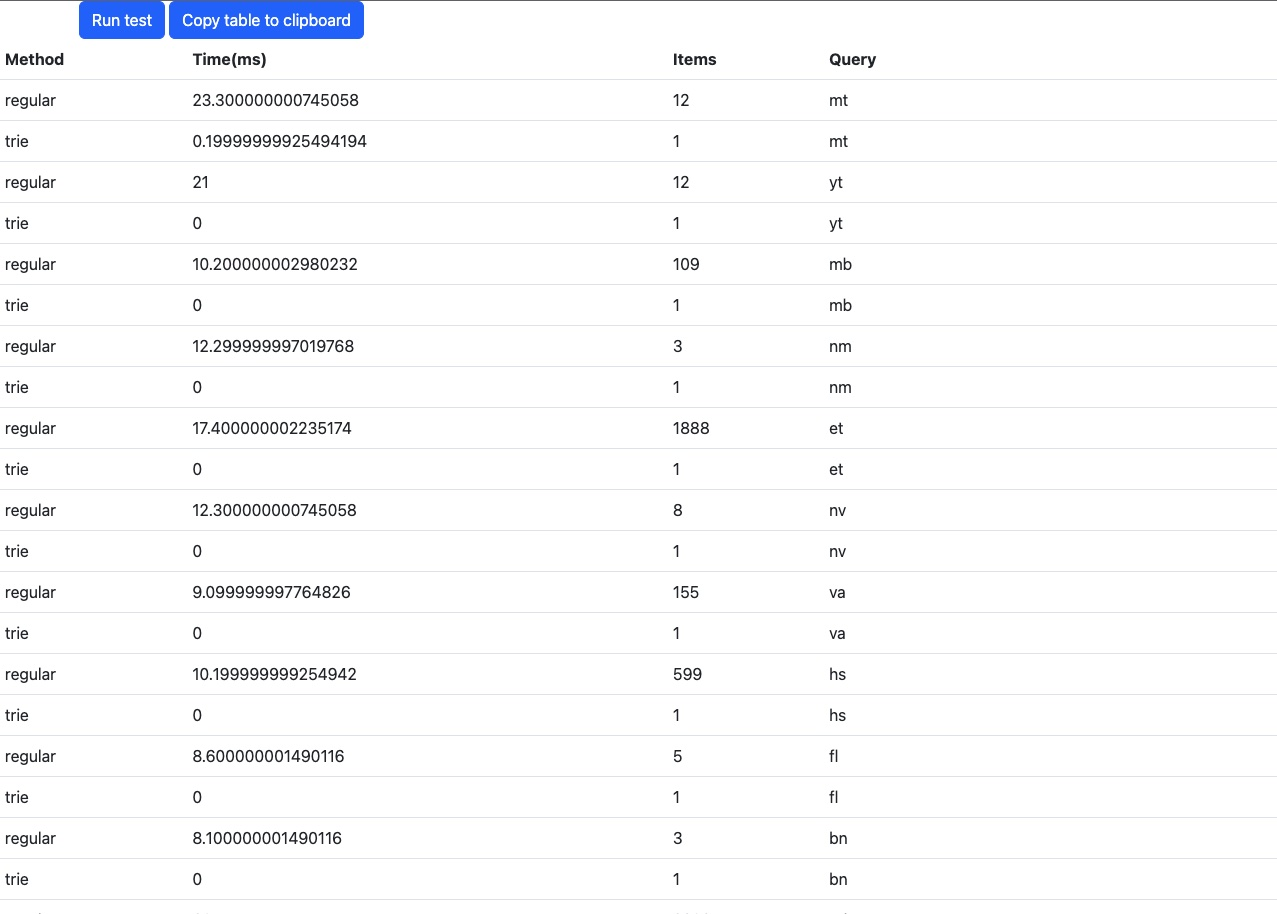
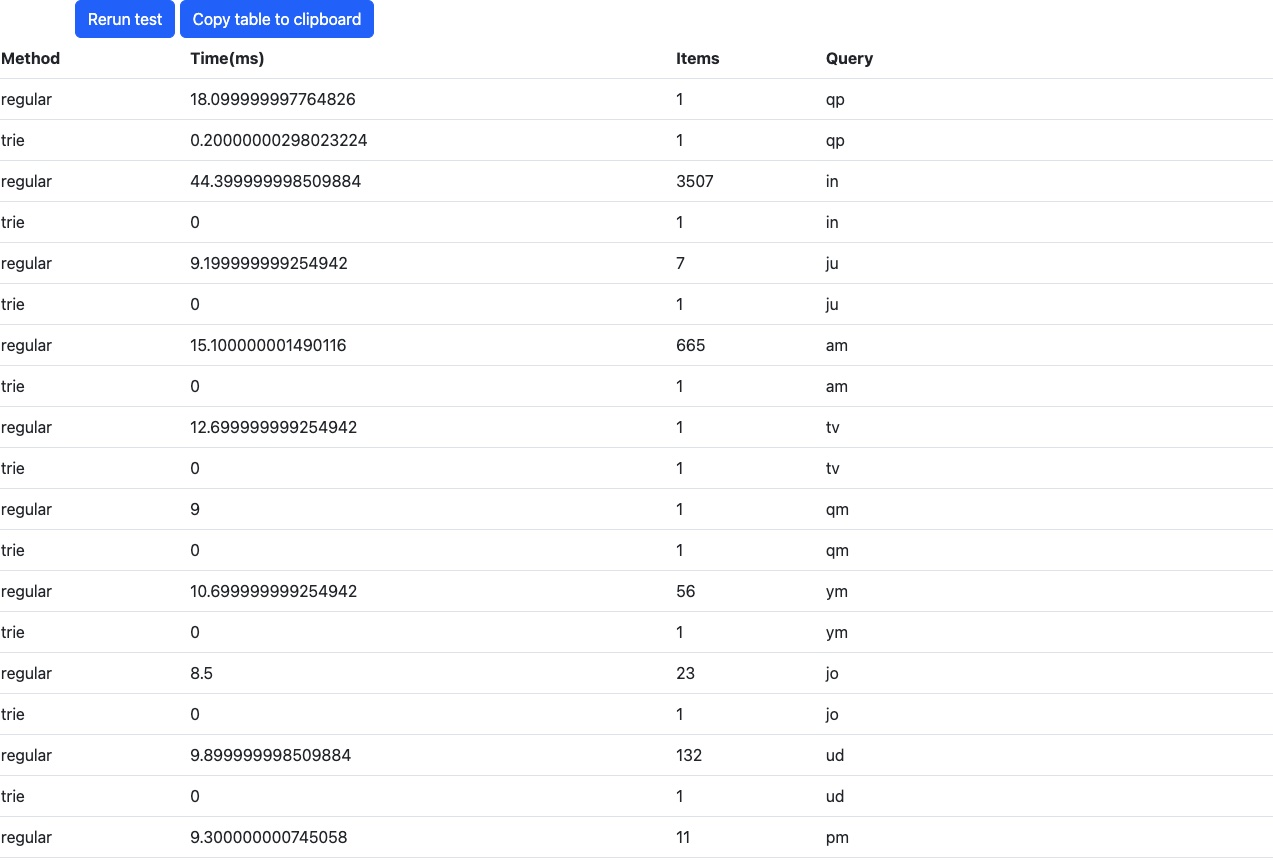
Better documentation

diff --git a/main.js b/main.js
@@ -292,7 +292,7 @@ function runTest() {
         updateResults(results);
         // set the data running to false
         $button.data("running", false)
-            .text("Run test")
+            .text("Rerun test")
             .prop("disabled", false);
 
     });
